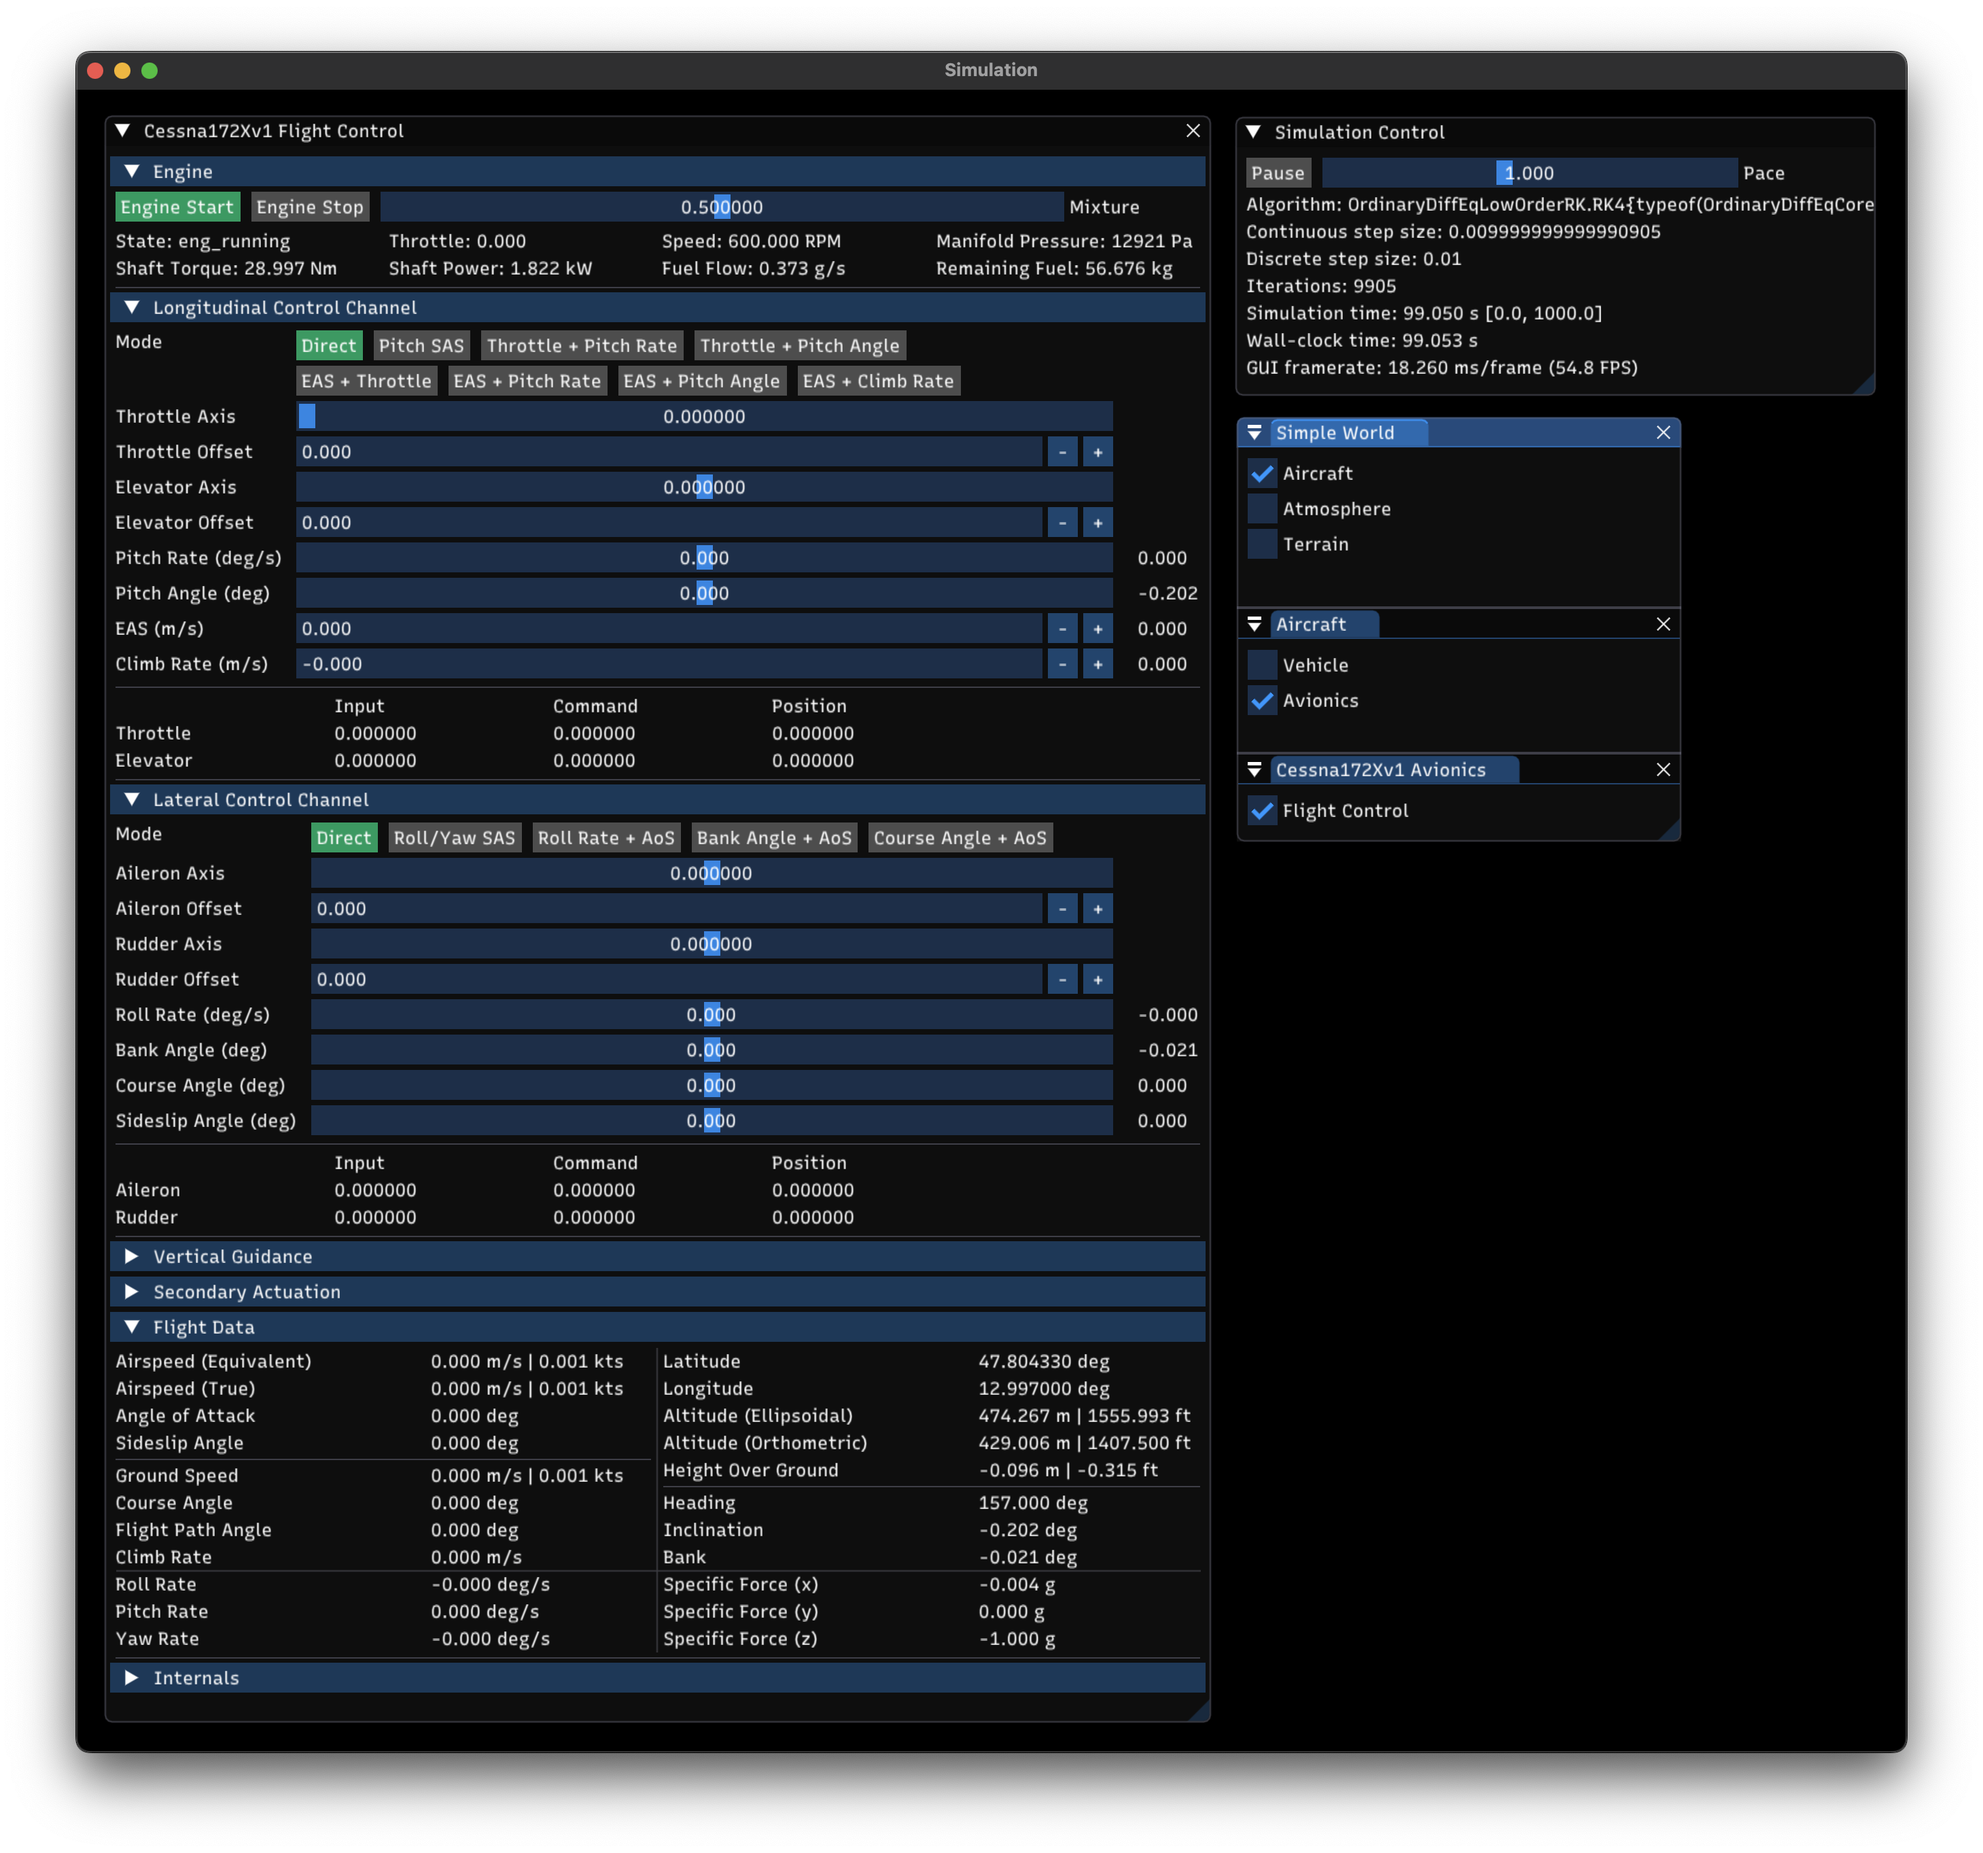
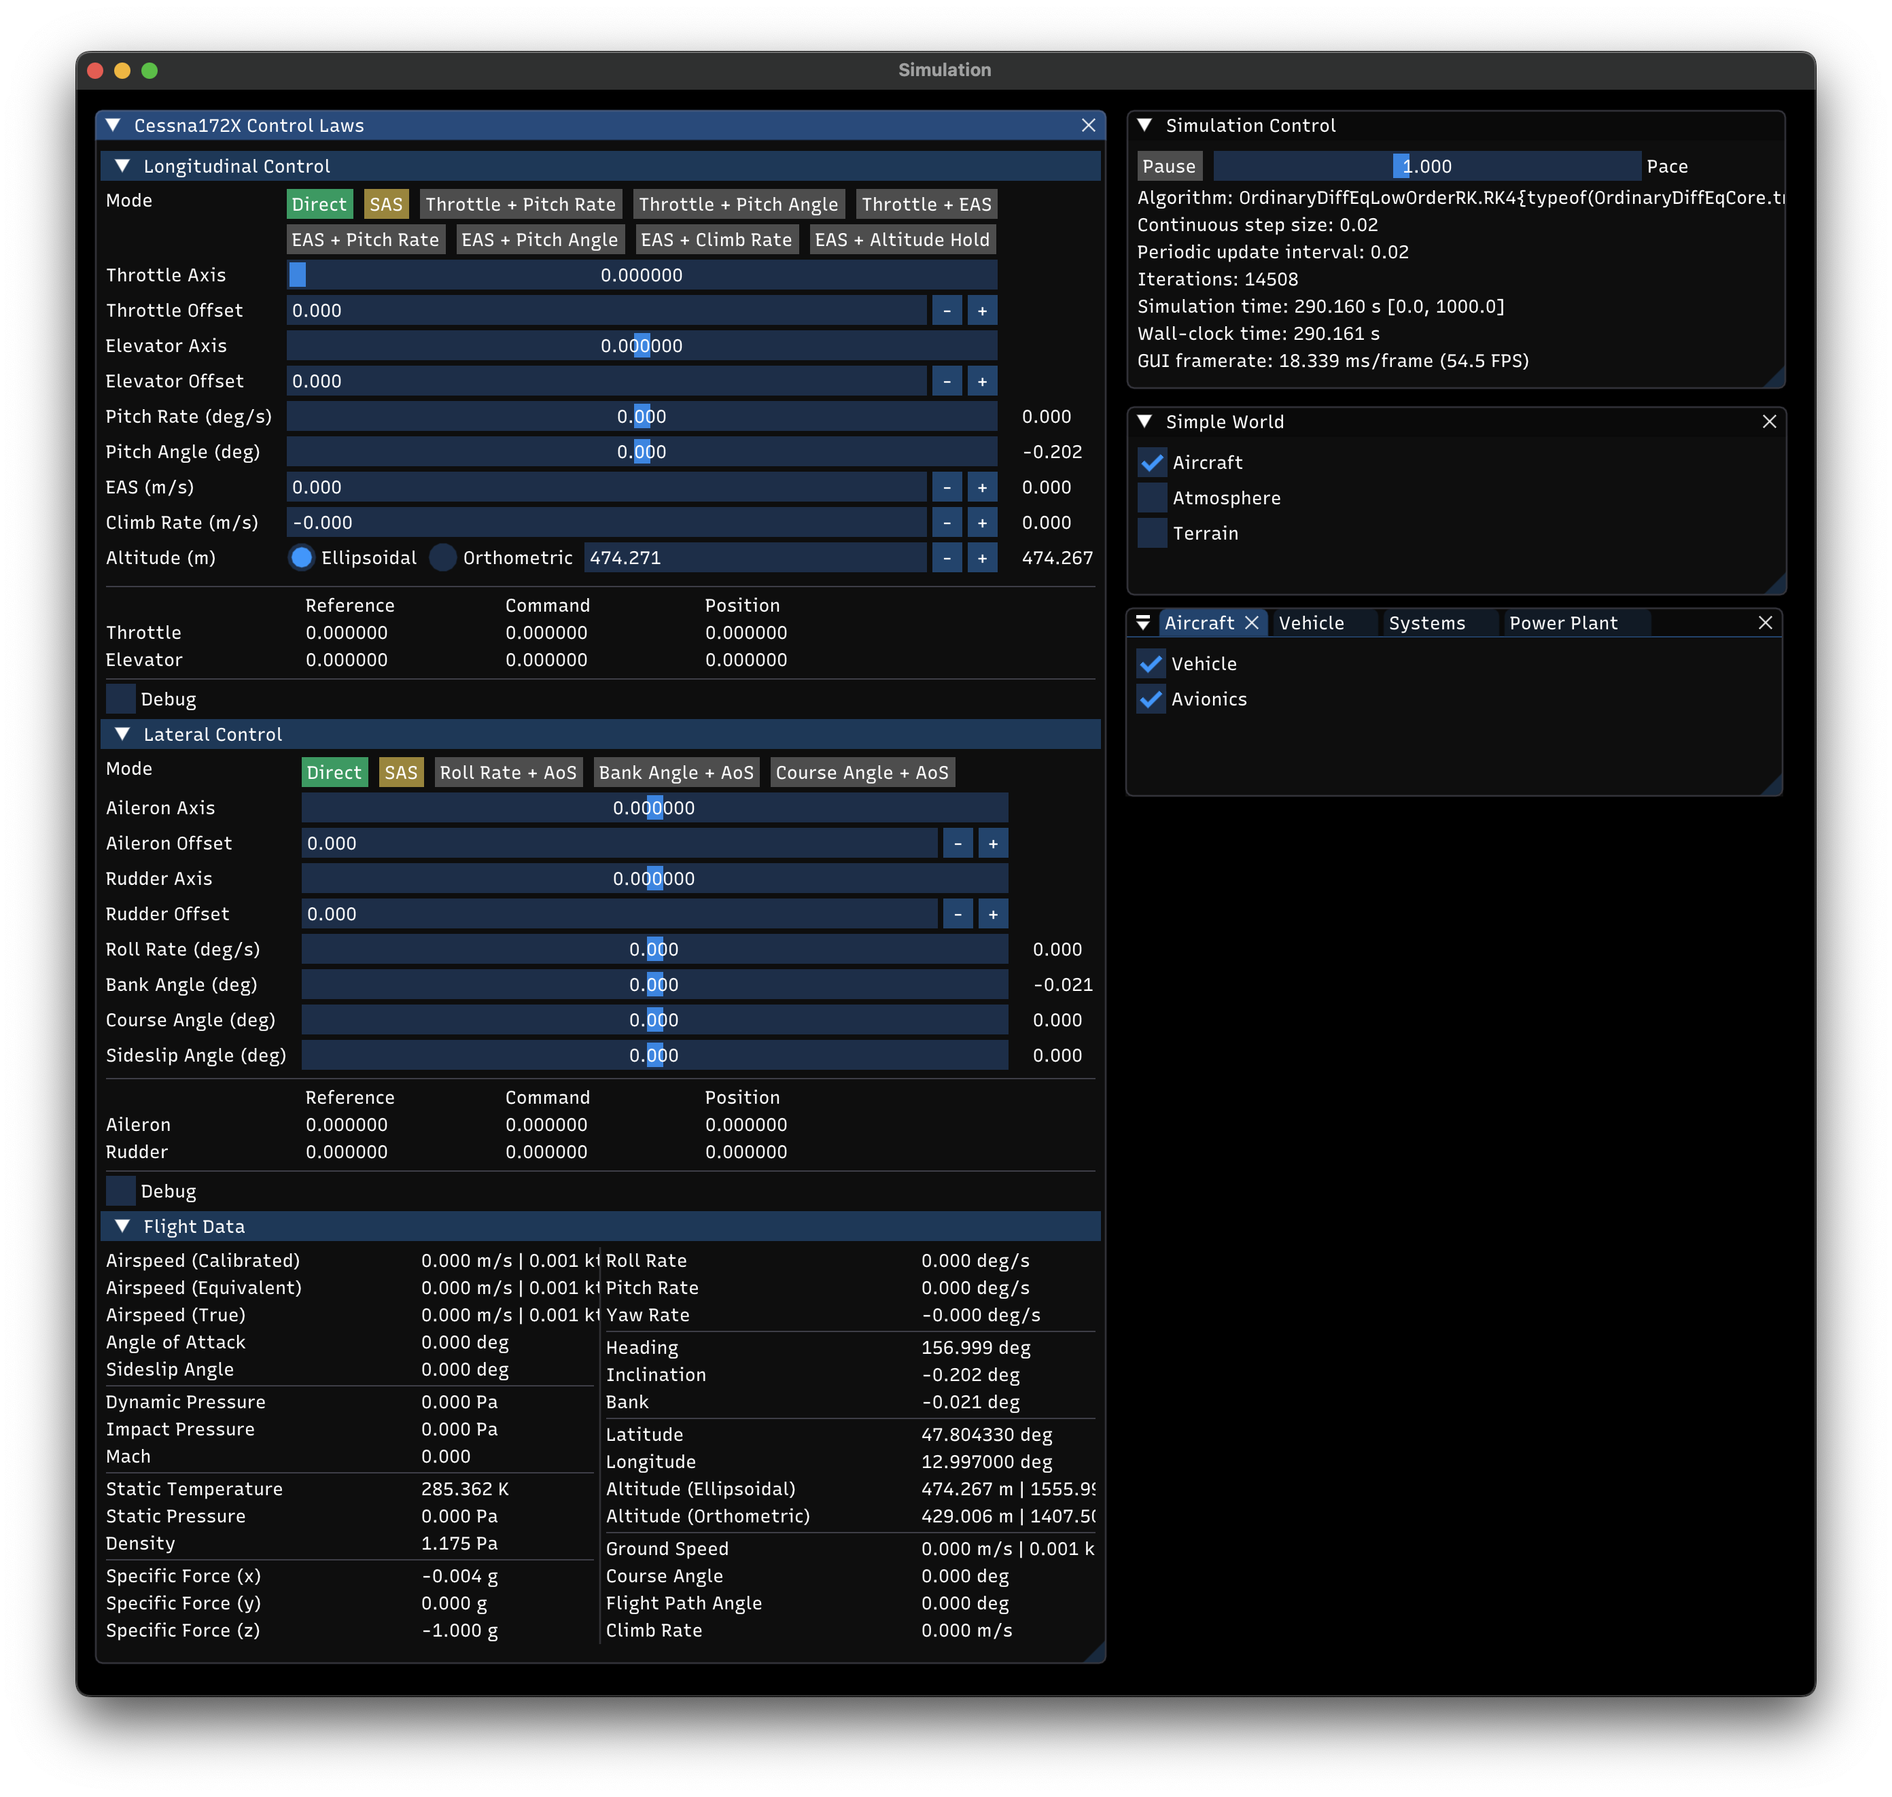
Add second tutorial to documentation pages

Changed region(s): [[0.0312, 0.031, 0.9688, 0.9614], [0.9375, 0.9304, 0.9688, 0.9614], [0.8125, 0.4032, 0.8438, 0.4342]]

diff --git a/docs/src/tutorials/tutorial01/tutorial01.md b/docs/src/tutorials/tutorial01/tutorial01.md
@@ -131,9 +131,10 @@ nothing # hide
     ```
 
 ```Flight.jl``` provides a generic joystick interface built on [SDL2_jll]
-(https://github.com/JuliaBinaryWrappers/SDL2_jll.jl). Currently, Thrustmaster's T.16000M and
-VKBSim's Gladiator Evo NXT are the only supported models. If you happen to have one of them, you
-can plug it in now and do the following:
+(https://github.com/JuliaBinaryWrappers/SDL2_jll.jl). Currently, Thrustmaster's
+[T.16000M](https://www.thrustmaster.com/products/t-16000m-fcs/) and VKBSim's [Gladiator NXT
+Evo](https://flightsimcontrols.com/product/gladiator-evo-space-combat-edition/) are the only
+supported models. If you happen to own one of these, you can plug it in now and do the following:
 
 ```@example tutorial01
 for joystick in update_connected_joysticks()
@@ -165,12 +166,12 @@ Sim.init!(sim, init_gnd)
 
 ### Running the Simulation
 
-Now we can finally start the simulation:
+Now we can finally run the simulation:
 ```julia
 Sim.run!(sim; gui = true)
 ```
 
-After a few seconds, the simulation will launch, and a new OS window containing the built-in GUI
+After a few seconds, the simulation will start, and a new OS window containing the built-in GUI
 will open:
 
 ![Default GUI](assets/gui_default.png)
@@ -207,16 +208,19 @@ simulation has taken control of the visuals.
     Sim.run!(sim; gui = true)
     ```
 
-Now return to the GUI and navigate to the *Aircraft > Vehicle > Systems > Power Plant > Engine*
-panel. Expand the *Control* header and press the *Engine Start* button. You can check the engine
-parameters under the *Data* header to confirm it is running. If you try to move the *Throttle*
-slider, you will notice it does not work. The reason is that, in this aircraft, throttle is not
-controlled directly, but through the fly-by-wire flight control system.
+Now return to the GUI and navigate to *Aircraft > Vehicle > Systems > Power Plant > Engine*. Expand
+the *Control* header and press the *Engine Start* button. To confirm the engine is running, you can
+check the engine parameters under the *Data* header.
 
-Let's check out the flight control system's interface. Navigate to *Aircraft > Avionics* and expand
-the *Longitudinal Control Channel* and *Lateral Control Channel* sections. The first one computes
-throttle and elevator commands. The second one computes aileron and rudder commands. Both are
-initialized in *Direct* mode, wherein each actuator command is set directly to the sum of its
+![GUI Engine Start](assets/gui_engine_start.png)
+
+If you now try to drag the *Throttle* slider, you will notice it does not move. The reason is that,
+on this aircraft, throttle is controlled through the fly-by-wire flight control system.
+
+You can find the flight control system's interface under *Aircraft > Avionics*. Expand its
+*Longitudinal Control* and *Lateral Control* sections. The longitudinal control channel computes
+throttle and elevator commands. The lateral control channel computes aileron and rudder commands.
+Both are initialized in *Direct* mode, wherein each actuator command is simply the sum of its
 corresponding *Axis* and *Offset* values. With *Direct* mode active on both channels, you are
 essentially flying the base Cessna 172S model, except for the additional actuator dynamics.
 
@@ -234,14 +238,14 @@ zero.
     To assign a precise value to a control slider, use Ctrl+Click (on Windows)
     or Cmd+click (on Mac) to enable keyboard input.
 
-Under *Longitudinal Control*, select the *Throttle/Pitch SAS* mode. In this mode, throttle and
-elevator inputs are fed to a longitudinal stability compensator, which computes the actual throttle
-and elevator actuator commands. This modifies the natural short-period and phugoid modes, providing
-a smoother, more stable pitch response. When clicked, the button will turn amber, indicating the
-mode is now on standby; it will engage automatically upon lift off.
+Under *Longitudinal Control*, select the *SAS* mode. In this mode, throttle and elevator inputs are
+fed to a longitudinal stability compensator, which computes the actual throttle and elevator
+actuator commands. This modifies the natural short-period and phugoid modes, providing a smoother,
+more stable pitch response. When clicked, the button will turn amber, indicating the mode is now on
+standby; it will engage automatically upon lift off.
 
-Under *Lateral Control*, select the *Roll/Yaw SAS* mode. In this mode, aileron and rudder inputs are
-fed to a lateral stability compensator, which computes aileron and rudder actuator commands. This
+Under *Lateral Control*, select the *SAS* mode. In this mode, aileron and rudder inputs are fed to a
+lateral stability compensator, which computes the actual aileron and rudder actuator commands. This
 improves the aircraft's Dutch roll response and stabilizes its naturally unstable spiral mode.
 
 Currently, the GUI does not have a graphical instrument panel. Instead, the *Flight Data* section
@@ -280,8 +284,8 @@ keep in mind that an arbitrary pitch rate cannot be sustained indefinitely!
     values to provide a smooth transition. The exception are *Pitch Rate* and *Roll Rate* commands,
     which are always initialized to zero.
 
-When you are done, enable the *EAS + Climb Rate* mode. Set the *EAS* command to 50 m/s and the
-*Climb Rate* command to zero. This will hold your altitude throughout the next steps.
+When you are done, enable the *EAS + Altitude Hold* mode and set the *EAS* command to 50 m/s. This
+will hold your altitude throughout the next steps.
 
 If you have attempted any turns so far, you may have noticed that the *Roll/Yaw SAS* mode does not
 provide automatic turn coordination. For this, you can use one of the higher level lateral modes,
@@ -297,7 +301,7 @@ maintain the commanded course angle, while also tracking the commanded sideslip 
 ![Course Tracking GUI](assets/gui_course.png)
 
 Feel free to explore the remaining control modes on your own. One final hint before wrapping up: if
-the whole take-off sequence starts getting tedious, you can skip it entirely by using the trim
+the take-off sequence starts getting tedious, you can skip it entirely by using the trim
 functionality to initialize the aircraft in flight. Here's how to do it:
 ```@example tutorial01
 init_air = C172.TrimParameters(;

diff --git a/README.md b/README.md
@@ -11,9 +11,9 @@
 
 ## Documentation
 
-[Documentation](https://e271828e.github.io/Flight.jl/dev/) is still in its infancy. For a first
-glance at the package's capabilities, check out the end-to-end [interactive
-simulation](https://e271828e.github.io/Flight.jl/dev/tutorials/tutorial01/tutorial01/) tutorial.
+[Documentation](https://e271828e.github.io/Flight.jl/dev/) is still in its infancy, but you can
+check out the [tutorials](https://e271828e.github.io/Flight.jl/dev/tutorials/tutorial01/tutorial01/)
+for a first glance at the package's capabilities.
 
 
 ## Overview

diff --git a/docs/src/index.md b/docs/src/index.md
@@ -52,8 +52,3 @@ Key features:
 
 *   **Pre-Built Aircraft Components:** Comes with high-fidelity, efficient and customizable models for
     propellers, piston engines and landing gear.
-
-*   **Integrated Control Design Workflow:** Provides general-purpose trimming and linearization
-    functions. Seamlessly import linearized models into the `ControlSystems.jl` ecosystem for
-    controller synthesis. Then, realize your design in a practical, discrete-time implementation, and
-    validate it via nonlinear simulation.
